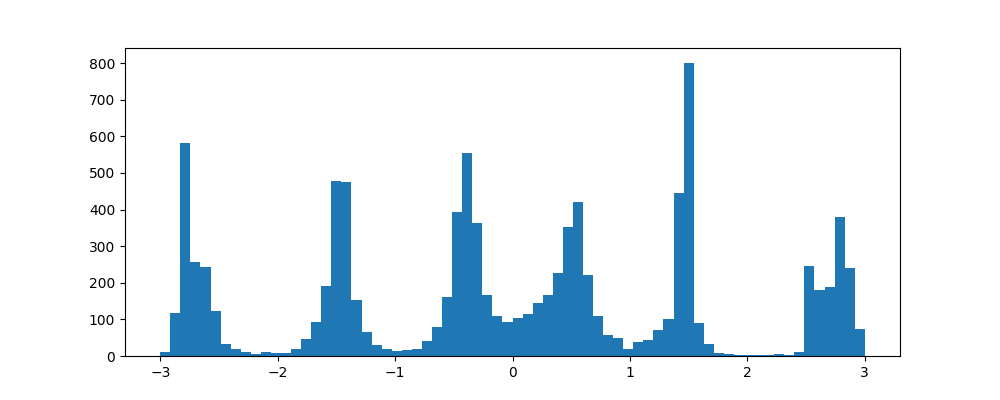
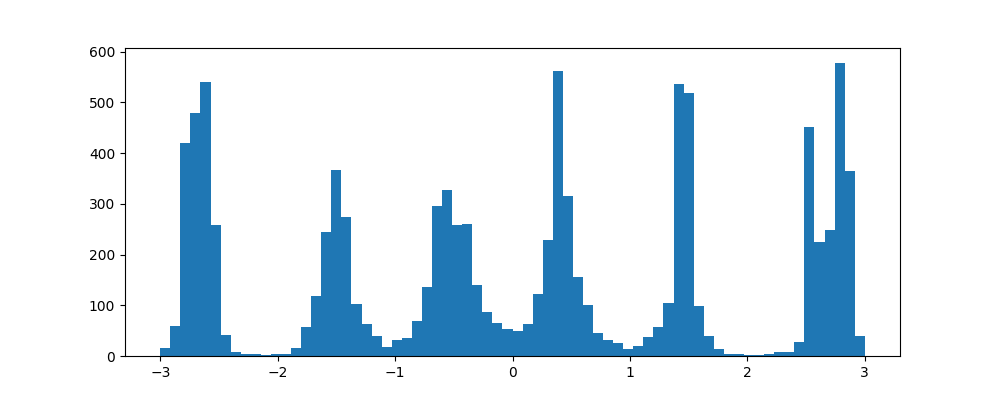
generic commit

diff --git a/scripts/transport/kvae_flow2.py b/scripts/transport/kvae_flow2.py
@@ -397,7 +397,7 @@ def comp_cond_kernel_transport(X_mu, Y_mu, Y_eta, params, n_iter = 101, n = 50,
         if i==0:
             model_params['mmd_func'] = model.mmd
 
-        n_iter = max(int(n_iter * f), 31)
+        n_iter = max(int(n_iter * f), 50)
 
         map_dict = model.map(model.X_mu, model.Y_eta, model.Y_mean, model.Y_var)
         Y_eta, Y_mean, Y_var = map_dict['y_eta'], map_dict['y_mean'], map_dict['y_var']
@@ -702,8 +702,8 @@ def run():
     ref_gen = mgan2
     target_gen = sample_spirals
     N = 3000
-    two_d_exp(ref_gen, target_gen, N, n_iter=101, plt_range=[[-3, 3], [-3, 3]], process_funcs=[], skip_idx=1,
-              slice_vals=[0], slice_range=[-3, 3], exp_name='spiral_kflow2', n_transports=200, vmax=.15)
+    two_d_exp(ref_gen, target_gen, N, n_iter=50, plt_range=[[-3, 3], [-3, 3]], process_funcs=[], skip_idx=1,
+              slice_vals=[0], slice_range=[-3, 3], exp_name='mgan_kflow3', n_transports=100, vmax=.15)
 
 
 
